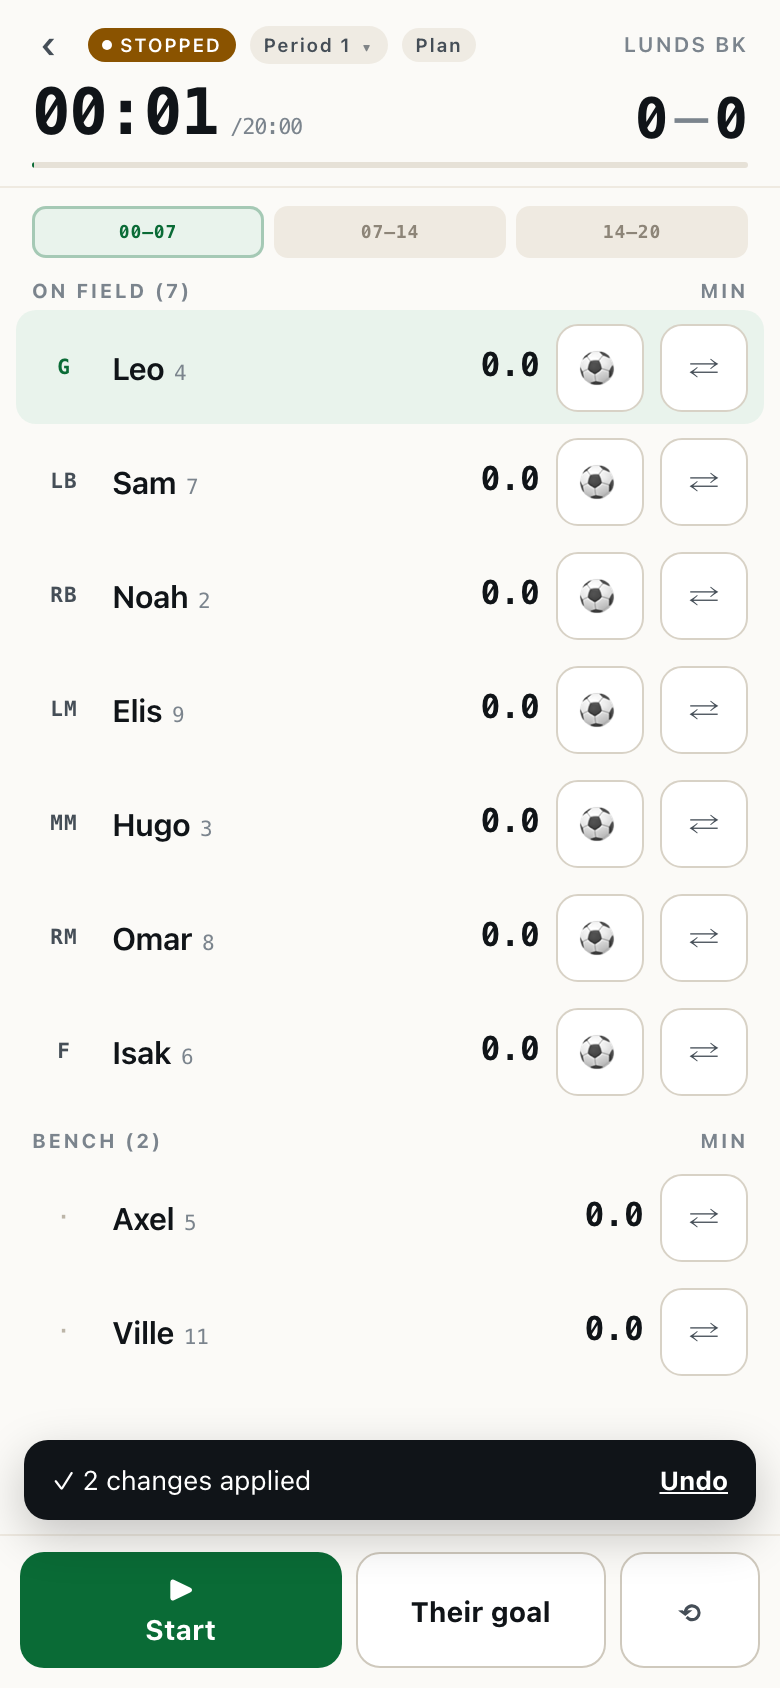
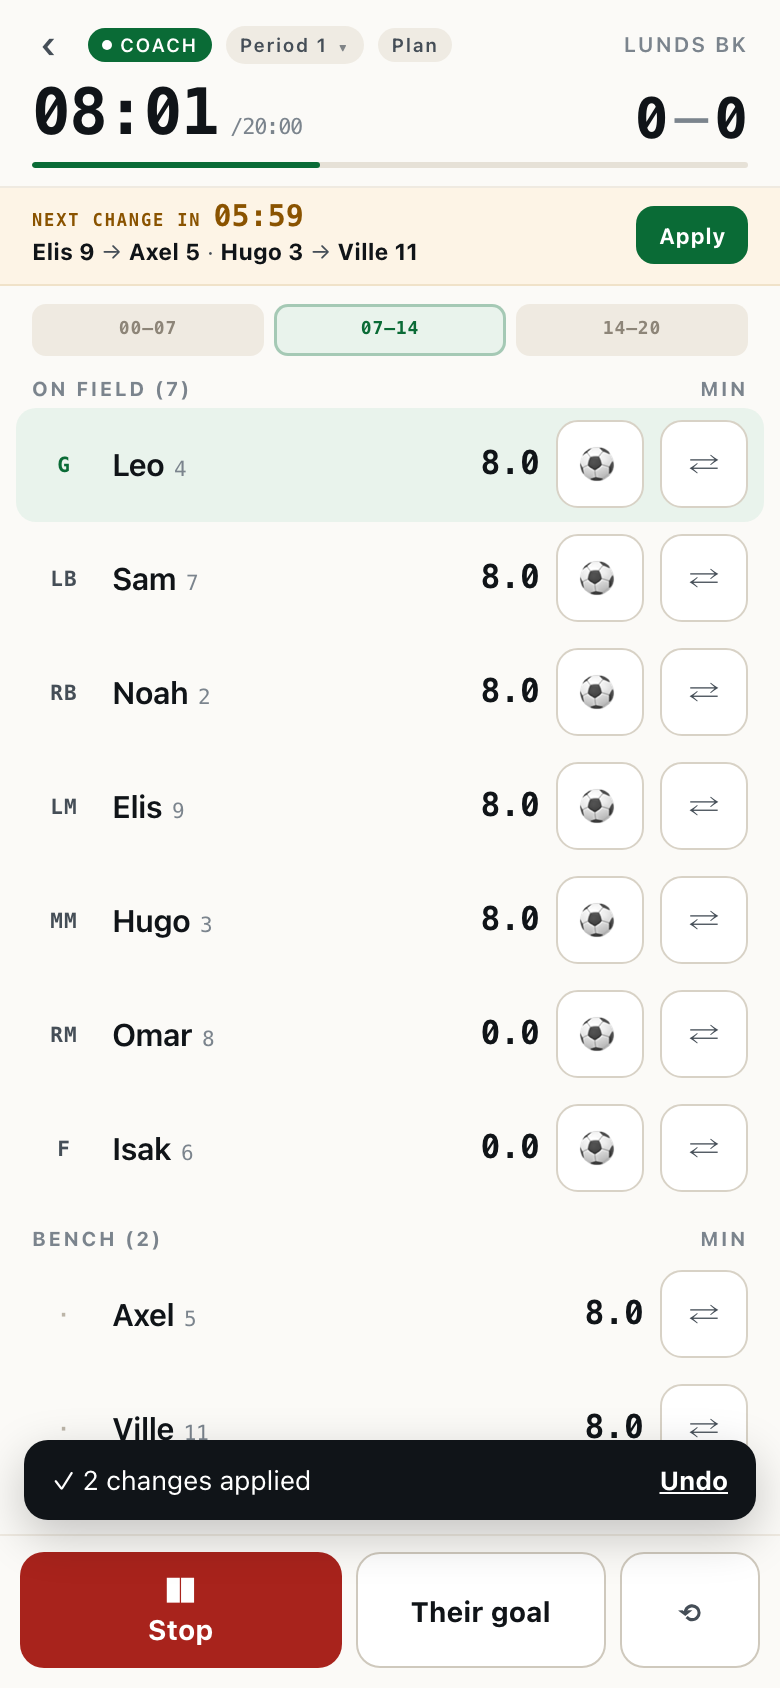
strip: keep a missed boundary visible as overdue; exact clock correction

diff --git a/app.js b/app.js
@@ -203,13 +203,54 @@ function planCell(blockIndex, slot) {
   return s.plan.find((x) => x.blockIndex === blockIndex && x.slot === slot)?.playerId || null;
 }
 
+/** Substitution pairs to reach `blockIndex`'s plan from the pitch as it is now. */
+function pairsFor(blockIndex, p, known) {
+  const planned = SLOTS.map((sl) => planCell(blockIndex, sl)).filter((id) => id && known.has(id));
+  // A half-filled block can't be trusted as a target: it would read as
+  // "everyone not listed must come off".
+  if (planned.length !== SLOTS.length) return null;
+  const onPitch = Object.keys(p.onField).map((sl) => p.onField[sl]).filter(Boolean);
+
+  const outs = SLOTS
+    .filter((sl) => p.onField[sl] && !planned.includes(p.onField[sl]))
+    .map((sl) => ({ slot: sl, id: p.onField[sl] }));
+
+  const benchIn = SLOTS
+    .map((sl) => ({ slot: sl, id: planCell(blockIndex, sl) }))
+    .filter((x) => x.id && known.has(x.id) && !onPitch.includes(x.id))
+    .filter((x, i, arr) => arr.findIndex((y) => y.id === x.id) === i);
+
+  const pairs = [];
+  const used = new Set();
+  for (const out of outs) {
+    const same = benchIn.find((x) => x.slot === out.slot && !used.has(x.id));
+    const any = same || benchIn.find((x) => !used.has(x.id));
+    if (!any) continue;
+    used.add(any.id);
+    pairs.push({ off: out.id, on: any.id, slot: out.slot });
+  }
+  return pairs;
+}
+
+/** True when exactly the players planned for `blockIndex` are the ones out there. */
+function pitchIsPlan(blockIndex, p, known) {
+  const want = SLOTS.map((sl) => planCell(blockIndex, sl)).filter((id) => id && known.has(id));
+  if (want.length !== SLOTS.length) return false;
+  const on = Object.keys(p.onField).map((sl) => p.onField[sl]).filter(Boolean);
+  if (on.length !== want.length) return false;
+  return on.every((id) => want.includes(id));
+}
+
 /**
- * What the plan asks for at the next block boundary, diffed against who is
- * actually on the pitch. Deriving it from the pitch (not the plan alone) means
- * an early substitution doesn't leave the strip nagging about a player who is
- * already sitting down.
+ * What to do at this boundary, read against the pitch rather than the plan.
  *
- * Returns null when there is nothing left to do this period.
+ * Order matters: if the block you are IN doesn't match its plan (you were late,
+ * or a sub happened early), that change is still owed — it stays on screen as
+ * overdue instead of silently sliding to the next boundary.
+ *
+ * Substitutions only. The planner rotates players through positions, and
+ * bubbling six "move" prompts at every boundary is noise; positions live on the
+ * plan sheet.
  */
 function nextChange(p) {
   if (p.state === 'idle' || p.state === 'ended') return null;
@@ -219,57 +260,38 @@ function nextChange(p) {
 
   let i = blocks.findIndex((b) => p.clockMs < b.startMs + b.lengthMs);
   if (i < 0) i = blocks.length - 1;
+  const cur = blocks[i];
   const nxt = blocks[i + 1];
-  if (!nxt) return null; // last block of the period: nothing planned beyond it
-
   const known = new Set(s.team.players.map((pl) => pl.id));
-  const planned = SLOTS.map((slot) => planCell(nxt.blockIndex, slot))
-    .filter((id) => id && known.has(id));
-  if (!planned.length) return null;
 
-  const onPitch = Object.keys(p.onField).map((sl) => p.onField[sl]).filter(Boolean);
-  const outs = SLOTS
-    .filter((sl) => p.onField[sl] && !planned.includes(p.onField[sl]))
-    .map((sl) => ({ slot: sl, id: p.onField[sl] }));
-  const benchIn = SLOTS
-    .filter((sl) => {
-      const want = planCell(nxt.blockIndex, sl);
-      return want && known.has(want) && !onPitch.includes(want);
-    })
-    .map((sl) => ({ slot: sl, id: planCell(nxt.blockIndex, sl) }))
-    .filter((x, i, arr) => arr.findIndex((y) => y.id === x.id) === i);
-
-  // Substitutions are what the boundary is for. Position shuffles are shown in
-  // the plan sheet, not pushed at the coach — the planner rotates players
-  // through slots, and bubbling six "move" prompts at every boundary is noise.
-  const pairs = [];
-  const usedIn = new Set();
-  for (const out of outs) {
-    const sameSlot = benchIn.find((x) => x.slot === out.slot && !usedIn.has(x.id));
-    const any = sameSlot || benchIn.find((x) => !usedIn.has(x.id));
-    if (!any) continue;
-    usedIn.add(any.id);
-    pairs.push({ off: out.id, on: any.id, slot: out.slot });
+  // Still owed for the block we are in? Only if you have not moved on yet —
+  // i.e. the pitch is still the previous block's lineup. Applying early puts a
+  // later lineup out there, which must not read as "overdue" in reverse.
+  const prev = blocks[i - 1];
+  const owed = prev && pitchIsPlan(prev.blockIndex, p, known)
+    ? pairsFor(cur.blockIndex, p, known)
+    : null;
+  if (owed && owed.length) {
+    return { msTo: 0, lateMs: Math.max(0, p.clockMs - cur.startMs), pairs: owed, moves: [], overdue: true };
   }
 
-  // A planned position swap with no substitution is still worth surfacing —
-  // but only when it is genuinely small.
-  const moves = pairs.length ? [] : SLOTS
+  if (!nxt) return null;
+
+  const ahead = pairsFor(nxt.blockIndex, p, known);
+  if (ahead && ahead.length) {
+    return { msTo: Math.max(0, nxt.startMs - p.clockMs), lateMs: 0, pairs: ahead, moves: [], overdue: false };
+  }
+
+  // A small planned position swap with no substitution is still worth a nudge.
+  const onPitch = Object.keys(p.onField).map((sl) => p.onField[sl]).filter(Boolean);
+  const moves = SLOTS
     .filter((sl) => {
       const want = planCell(nxt.blockIndex, sl);
       return want && known.has(want) && p.onField[sl] !== want && onPitch.includes(want);
     })
-    .map((sl) => ({ player: planCell(nxt.blockIndex, sl), to: sl }))
-    .slice(0, 3);
-  const onlyMoves = moves.length > 0 && moves.length <= 2;
-
-  if (!pairs.length && !onlyMoves) return null;
-  return {
-    msTo: Math.max(0, nxt.startMs - p.clockMs),
-    block: nxt,
-    pairs,
-    moves: onlyMoves ? moves : [],
-  };
+    .map((sl) => ({ player: planCell(nxt.blockIndex, sl), to: sl }));
+  if (!moves.length || moves.length > 2) return null;
+  return { msTo: Math.max(0, nxt.startMs - p.clockMs), lateMs: 0, pairs: [], moves, overdue: false };
 }
 
 function changeStrip(p) {
@@ -283,10 +305,12 @@ function changeStrip(p) {
     ...nc.pairs.map(({ off, on }) => `${nm(off)} → ${nm(on)}`),
     ...nc.moves.map((m) => `${nm(m.player)} → ${P(m.to)}`),
   ];
-  return `<div class="nxt">
+  const label = nc.overdue ? T('overdue') : T('nextChangeIn');
+  const clock = nc.overdue ? `+${mmss(nc.lateMs)}` : mmss(nc.msTo);
+  return `<div class="nxt${nc.overdue ? ' late' : ''}">
       <div class="nxr">
-        <div class="l1"><span class="lab">${T('nextChangeIn')}</span>
-          <span class="cd">${mmss(nc.msTo)}</span></div>
+        <div class="l1"><span class="lab">${label}</span>
+          <span class="cd">${clock}</span></div>
         <div class="chg">${items.join(' · ')}</div>
       </div>
       <button class="apply" data-act="applyplan">${T('apply')}</button>
@@ -891,6 +915,10 @@ function renderSheet() {
         <button class="gbtn" data-act="adjust:${cur + 1}">+1:00</button>
         <button class="gbtn" data-act="adjust:${config().periodMinutes}">${config().periodMinutes}:00</button>
       </div>
+      <div class="setexact">
+        <input name="exactmin" type="number" min="0" max="120" step="1" value="${cur}" inputmode="numeric">
+        <button data-act="setexact">${T('setExact')}</button>
+      </div>
       ${close}
     </div>`;
   }
@@ -1268,6 +1296,13 @@ function handle(ev) {
       }
       render(); return;
     }
+    case 'setexact': {
+      const el = document.querySelector('#app .setexact [name="exactmin"]');
+      const mins = Math.max(0, Math.min(120, Number(el?.value) || 0));
+      act('clock_adjust', { period: p.period, toMs: mins * MIN }, { silent: true });
+      s.sheet = null; render(); return;
+    }
+
     case 'adjust': {
       act('clock_adjust', { period: p.period, toMs: Math.max(0, Number(a) || 0) * MIN });
       s.sheet = null; render(); return;

diff --git a/styles.css b/styles.css
@@ -245,6 +245,8 @@ table.grid td:active{background:#eae5dc}
 .nxt .apply{flex:none;background:var(--green);color:#fff;border-radius:9px;padding:8px 11px;
   font-size:11px;font-weight:700;letter-spacing:.02em}
 .nxt .apply:active{transform:scale(.97)}
+.nxt.late{background:var(--red-soft);border-bottom-color:#f0d3d0}
+.nxt.late .lab,.nxt.late .cd{color:var(--red)}
 
 /* ---------- plan sheet (inside a live match) ---------- */
 .sheet.tall{max-height:82%;display:flex;flex-direction:column;padding-bottom:0}
@@ -260,3 +262,11 @@ table.grid td:active{background:#eae5dc}
 .plegend{display:flex;align-items:center;gap:6px;padding:10px 16px 2px;font-size:10.5px;color:var(--ink3)}
 .plegend .sw{width:10px;height:10px;border-radius:3px;background:#f2f8f3;border:1px solid #cfe3d6}
 .sheet.tall .sheetclose{margin:8px 14px calc(12px + env(safe-area-inset-bottom));width:auto}
+
+/* exact clock correction — mirror the referee's watch */
+.setexact{display:flex;gap:8px;margin-top:9px}
+.setexact input{flex:1;height:46px;border:1px solid var(--line);border-radius:10px;padding:0 11px;
+  background:#fdfcfa;font:600 15px/1 var(--num);min-width:0}
+.setexact button{flex:none;padding:0 14px;border-radius:10px;background:var(--green);color:#fff;
+  font-weight:700;font-size:12.5px}
+.setexact button:active{transform:scale(.97)}

diff --git a/i18n/sv.js b/i18n/sv.js
@@ -79,7 +79,8 @@ export default {
   nextChangeIn: 'Nästa byte om', apply: 'Verkställ', now: 'Nu',
   played: 'spelad', blocksN: '{n} block', readOnlyPlay: 'endast läsning under match',
   youAreHere: 'Aktuellt block', applied: '{n} byten gjorda',
-  appliedOne: '1 byte gjort', close: 'Stäng',
+  appliedOne: '1 byte gjort',
+  overdue: 'Byte försenat', close: 'Stäng',
   save: 'Spara',
   delete: 'Ta bort',
   history: 'Historik',

diff --git a/i18n/en.js b/i18n/en.js
@@ -89,7 +89,8 @@ export default {
   nextChangeIn: 'Next change in', apply: 'Apply', now: 'Now',
   played: 'played', blocksN: '{n} blocks', readOnlyPlay: 'read-only during play',
   youAreHere: 'Current block', applied: '{n} changes applied',
-  appliedOne: '1 change applied', close: 'Close',
+  appliedOne: '1 change applied',
+  overdue: 'Change overdue', close: 'Close',
   save: 'Save',
   delete: 'Delete',
   history: 'History',

diff --git a/sw.js b/sw.js
@@ -1,5 +1,5 @@
 /* App shell cache. Bump VERSION whenever a shell file changes. */
-const VERSION = 'mm-v4';
+const VERSION = 'mm-v5';
 const SHELL = [
   './',
   './index.html',
